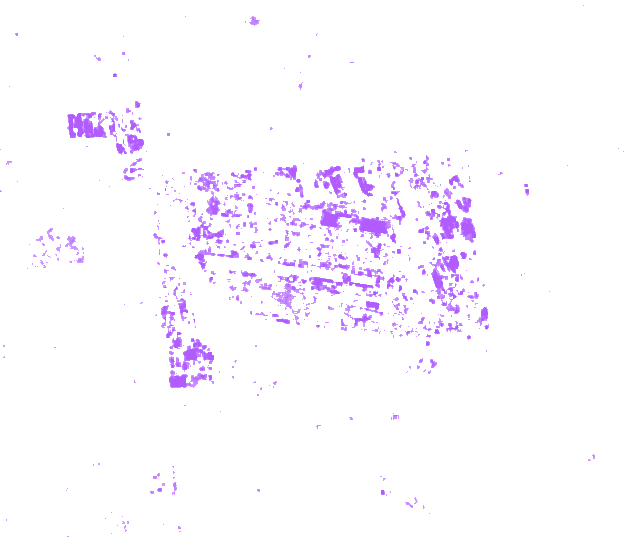
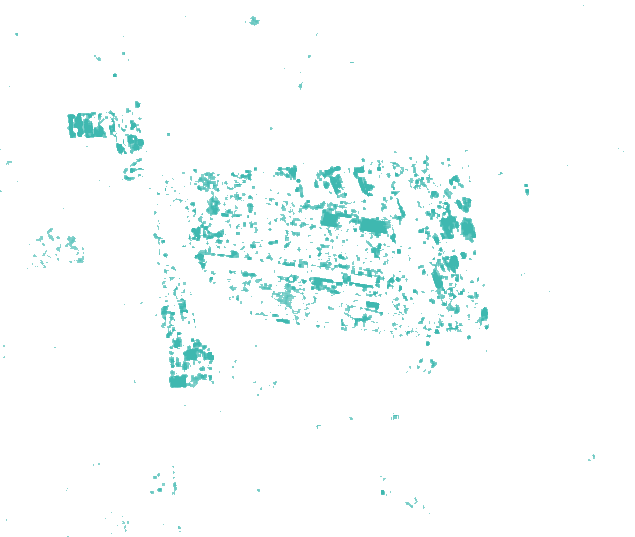
Map: replace NISAR purple with deep teal (#43)
Claude-Session: https://claude.ai/code/session_01Hon3ryJ9veeTL5aCGruNmY

diff --git a/map/index.html b/map/index.html
@@ -13,9 +13,9 @@
   :root {
     --linen: #EFEAE0; --ivory: #FAF8F3; --paper: #F5F1E8; --rule: #DCD4C5; --rule2: #CFC6B4;
     --ink: #1D1C1A; --ink2: #3A3731; --muted: #6F675A; --faint: #A39A8B;
-    --rust: #C2461B; --ember: #FF5A1F; --ochre: #B9832A; --crimson: #8E1F1F; --teal: #2C6A66;
+    --rust: #C2461B; --ember: #FF5A1F; --ochre: #B9832A; --crimson: #8E1F1F; --teal: #3A5A78;
     /* one color per satellite, used everywhere: chips, lanes, charts, map */
-    --s1: #3E6A96; --nisar: #8A2BE2; --swot: #12808F; --opera: #6F8FB0; --proj: #B9832A;
+    --s1: #3E6A96; --nisar: #1F6F78; --swot: #2B7BBA; --opera: #6F8FB0; --proj: #B9832A;
     --lc-developed: #8F8A80; --lc-cropland: #D9A93A; --lc-pasture_hay: #E3D08A; --lc-forest: #3F6E45;
     --lc-shrub_grass: #9DB07A; --lc-barren: #C9B79A; --lc-wetlands: #4E9A9C; --lc-water: #3D74AE;
     --mono: "IBM Plex Mono", ui-monospace, Menlo, monospace;
@@ -99,8 +99,8 @@
   .btn:hover { background: var(--ink); color: var(--ivory); }
   .btn.solid { background: var(--ink); color: var(--ivory); }
   .btn.solid:hover { background: #000; }
-  .btn.violet { border-color: var(--nisar); background: var(--nisar); color: #fff; }
-  .linkbtn { background: none; border: 0; padding: 0; font: inherit; color: var(--teal); cursor: pointer; text-align: left; text-decoration: underline; text-decoration-color: rgba(44, 106, 102, .35); }
+  .btn.nisarbtn { border-color: var(--nisar); background: var(--nisar); color: #fff; }
+  .linkbtn { background: none; border: 0; padding: 0; font: inherit; color: var(--teal); cursor: pointer; text-align: left; text-decoration: underline; text-decoration-color: rgba(58, 90, 120, .35); }
   .back { display: inline-flex; align-items: center; gap: 6px; border: 0; background: none; padding: 0; margin-bottom: 14px; cursor: pointer; font: 500 10.5px var(--mono); letter-spacing: .1em; text-transform: uppercase; color: var(--muted); }
   .back:hover { color: var(--ink); }
 
@@ -281,7 +281,7 @@
     <span class="chip nisar">NISAR radar</span>
     <h2>What NASA's NISAR adds</h2>
     <p>NISAR is a NASA-ISRO radar satellite. It sees through clouds, day or night, and passes over every 12 days.</p>
-    <p>Its long L-band waves show new buildings rising and tiny ground motion over the aquifers campuses depend on. Anything purple on the map is NISAR.</p>
+    <p>Its long L-band waves show new buildings rising and tiny ground motion over the aquifers campuses depend on. Anything deep teal on the map is NISAR.</p>
   </div>
   <div class="pg" style="--c:var(--ink)" hidden>
     <span class="cap">How to use it</span>
@@ -429,10 +429,10 @@ function radarChart(n, s) {
     ${xt}
     <text x="${L0}" y="6" font-size="9.5" fill="#3E6A96" font-family="IBM Plex Mono" font-weight="600">SENTINEL-1 · VV dB</text>
     <path d="${path(n.s1.t, n.s1.v, Y1)}" fill="none" stroke="#3E6A96" stroke-width="1.6"/>
-    <text x="${L0}" y="${top2 - 4}" font-size="9.5" fill="#8A2BE2" font-family="IBM Plex Mono" font-weight="600">NISAR · HH dB</text>
-    <rect x="${X(n.nisar.t[0]) - 4}" y="${top2}" width="${W - R0 - X(n.nisar.t[0]) + 4}" height="${h2}" fill="#8A2BE2" opacity=".07"/>
-    <path d="${path(n.nisar.t, n.nisar.v, Y2)}" fill="none" stroke="#8A2BE2" stroke-width="1.8"/>
-    ${n.nisar.t.map((d, i) => `<circle cx="${X(d)}" cy="${Y2(n.nisar.v[i])}" r="2.6" fill="#8A2BE2"/>`).join("")}
+    <text x="${L0}" y="${top2 - 4}" font-size="9.5" fill="#1F6F78" font-family="IBM Plex Mono" font-weight="600">NISAR · HH dB</text>
+    <rect x="${X(n.nisar.t[0]) - 4}" y="${top2}" width="${W - R0 - X(n.nisar.t[0]) + 4}" height="${h2}" fill="#1F6F78" opacity=".07"/>
+    <path d="${path(n.nisar.t, n.nisar.v, Y2)}" fill="none" stroke="#1F6F78" stroke-width="1.8"/>
+    ${n.nisar.t.map((d, i) => `<circle cx="${X(d)}" cy="${Y2(n.nisar.v[i])}" r="2.6" fill="#1F6F78"/>`).join("")}
     ${cs ? `<line x1="${X(cs)}" x2="${X(cs)}" y1="8" y2="${H - 12}" stroke="#1D1C1A" stroke-dasharray="3 2"/><text x="${X(cs) - 3}" y="18" font-size="9" text-anchor="end" fill="#1D1C1A" font-family="IBM Plex Mono">BUILD STARTS</text>` : ""}
   </svg>`;
 }
@@ -444,7 +444,7 @@ function nisarPair(sid) {
       <figcaption class="note" style="margin-top:3px">NISAR · ${f0.date}</figcaption></figure>
     <figure style="margin:0;position:relative"><div style="position:relative"><img loading="lazy" src="${esc(f1.png)}" alt="NISAR radar, ${f1.date}" style="width:100%;display:block;background:#222;aspect-ratio:1;object-fit:cover">
       <img loading="lazy" src="${esc(n.change_png)}" alt="" style="position:absolute;inset:0;width:100%;height:100%;object-fit:cover;image-rendering:pixelated"></div>
-      <figcaption class="note" style="margin-top:3px">NISAR · ${f1.date} · <b style="color:var(--nisar)">purple = much brighter</b></figcaption></figure></div>`;
+      <figcaption class="note" style="margin-top:3px">NISAR · ${f1.date} · <b style="color:var(--nisar)">teal = much brighter</b></figcaption></figure></div>`;
 }
 /* NISAR ground motion (GUNW) over a linked aquifer: cumulative mm, with the +/- 2 sigma noise band growing pair by pair. */
 const GW_TXT = { no_clear: "No clear movement", toward: "Moved toward the satellite", away: "Moved away from the satellite" };
@@ -456,10 +456,10 @@ function gwChart(g, big) {
   const X = x => L0 + (x - t0) / (t1 - t0) * (W - L0 - R0), Y = v => T0 + (m - v) / (2 * m) * (H - T0 - B0);
   const band = t.map((x, k) => `${X(x).toFixed(1)},${Y(env[k]).toFixed(1)}`).join(" ") + " " + t.map((x, k) => `${X(x).toFixed(1)},${Y(-env[k]).toFixed(1)}`).reverse().join(" ");
   const line = g.v.map((v, k) => `${k ? "L" : "M"}${X(t[k]).toFixed(1)},${Y(v).toFixed(1)}`).join("");
-  const col = "#8A2BE2";
+  const col = "#1F6F78";
   const tx = (x, y, s, a = "end") => `<text x="${x}" y="${y}" font-size="9.5" text-anchor="${a}" fill="#6F675A" font-family="IBM Plex Mono">${s}</text>`;
   return `<svg class="${big ? "chart" : "spark"}" viewBox="0 0 ${W} ${H}" ${big ? 'role="img" aria-label="NISAR ground motion over the aquifer"' : 'aria-hidden="true"'}>
-    <polygon points="${band}" fill="#8A2BE2" opacity=".10"/><line x1="${L0}" x2="${W - R0}" y1="${Y(0)}" y2="${Y(0)}" stroke="#DCD4C5"/>
+    <polygon points="${band}" fill="#1F6F78" opacity=".10"/><line x1="${L0}" x2="${W - R0}" y1="${Y(0)}" y2="${Y(0)}" stroke="#DCD4C5"/>
     <path d="${line}" fill="none" stroke="${col}" stroke-width="${big ? 2 : 1.5}"/>${big ? g.v.map((v, k) => `<circle cx="${X(t[k])}" cy="${Y(v)}" r="2.2" fill="${col}"/>`).join("") : ""}
     ${big ? tx(L0 - 5, Y(0) + 3, "0") + tx(L0 - 5, Y(m * .9) + 3, "+" + (m * .9 / 10).toFixed(1) + " cm") + tx(L0 - 5, Y(-m * .9) + 3, "-" + (m * .9 / 10).toFixed(1) + " cm")
       + tx(X(t0), H - 4, g.first_date.slice(5), "start") + tx(X(t1), H - 4, g.last_date.slice(5)) : ""}</svg>`;
@@ -535,10 +535,10 @@ function chWater() {
         <span class="barw"><i style="--c:${SHARE_C(x)};width:${Math.min(100, x / maxS * 100)}%"></i><u style="left:${Math.min(100, 1 / maxS * 100)}%"></u></span></button>`; }).join("")}
     ${how(srcline(["data/sources.csv", "data/water/site_sources.csv"], ["https://echo.epa.gov/tools/data-downloads#dwdownloads"]), "Utility and source come from EPA drinking-water records for the service area each campus sits in.", "F5: estimated campus water (F4) divided by the utility's supply (people served x the state's average liters per person per day, USGS 2015). Middle estimate shown. A share above 100% means the estimate is larger than today's supply; it does not say where the water would come from.", "Linked to is not caused by: a campus being linked to a source does not mean it caused any change in it.")}
     </section>
-    <section class="part" style="--c:#12808F"><h2 class="ph"><span class="pn">2</span>Rivers and lakes: is the water level changing?</h2>
+    <section class="part" style="--c:#2B7BBA"><h2 class="ph"><span class="pn">2</span>Rivers and lakes: is the water level changing?</h2>
     ${swot.map(s => { const w = trendWords(s);
       return `<button class="rank" data-src="${s.id}"><span class="nm">${esc(s.water_body.replace(/\s*\(.*?\)/g, ""))}<small style="color:${w.down ? "#C2461B" : "var(--muted)"}">${chip("swot")} ${esc(w.txt)}${w.few ? "" : ` · ${s.trend_n} passes`}</small></span>
-        <span>${sparkline(s.series, w.few ? "#A39A8B" : "#12808F", w.few)}</span></button>`; }).join("")}
+        <span>${sparkline(s.series, w.few ? "#A39A8B" : "#2B7BBA", w.few)}</span></button>`; }).join("")}
     ${how(srcline(["data/sources.csv", "data/water/swot/"], ["https://podaac.github.io/hydrocron/intro.html"]), `SWOT measures river and lake water levels from space. The trend is a straight-line fit to the passes since SWOT began (2023), so it covers only a few years. With fewer than ${SWOT_MIN_N} good passes we show the points but do not call it a trend. A trend describes the water body; it does not show what caused the change.`)}
     </section>
     <section class="part" style="--c:#6F8FB0"><h2 class="ph"><span class="pn">3</span>Aquifers: is the ground above them sinking?</h2>
@@ -575,10 +575,10 @@ function futureChart(y) {
     ${grid.map(v => `<line x1="${L0}" x2="${W - R0}" y1="${Y(v)}" y2="${Y(v)}" stroke="#E6DFD1"/><text x="${L0 - 5}" y="${Y(v) + 3}" font-size="9.5" text-anchor="end" fill="#6F675A" font-family="IBM Plex Mono">${v >= 1e6 ? (v / 1e6).toFixed(1) + "M" : Math.round(v / 1e3) + "k"}</text>`).join("")}
     <path d="${line(pc)}L${X(n - 1)},${Y(ann[n - 1])}${ann.map((v, i) => `L${X(n - 1 - i)},${Y(ann[n - 1 - i])}`).join("")}Z" fill="#B9832A" opacity=".10"/>
     <path d="${line(pc)}" fill="none" stroke="#B9832A" stroke-width="2" stroke-dasharray="5 4"/>
-    <polygon points="${band}" fill="#12808F" opacity=".14"/>
-    <path d="${line(ann)}" fill="none" stroke="#12808F" stroke-width="2.2"/>
+    <polygon points="${band}" fill="#2B7BBA" opacity=".14"/>
+    <path d="${line(ann)}" fill="none" stroke="#2B7BBA" stroke-width="2.2"/>
     <line x1="${X(y)}" x2="${X(y)}" y1="${T0p}" y2="${H - B0}" stroke="#1D1C1A" stroke-width="1"/>
-    <circle cx="${X(y)}" cy="${Y(ann[y])}" r="4" fill="#12808F" stroke="#fff" stroke-width="1.5"/><circle cx="${X(y)}" cy="${Y(pc[y])}" r="4" fill="#B9832A" stroke="#fff" stroke-width="1.5"/>
+    <circle cx="${X(y)}" cy="${Y(ann[y])}" r="4" fill="#2B7BBA" stroke="#fff" stroke-width="1.5"/><circle cx="${X(y)}" cy="${Y(pc[y])}" r="4" fill="#B9832A" stroke="#fff" stroke-width="1.5"/>
     ${YEARS.map((yy, i) => i % (isNarrow() ? 3 : 1) === 0 || i === n - 1 ? `<text x="${X(i)}" y="${H - 5}" font-size="9.5" text-anchor="middle" fill="${i === y ? "#1D1C1A" : "#6F675A"}" font-family="IBM Plex Mono" font-weight="${i === y ? 600 : 400}">${String(yy).slice(2) === String(yy).slice(2) ? "'" + String(yy).slice(2) : yy}</text>` : "").join("")}
     <text x="${X(n - 1) - 4}" y="${Y(pc[n - 1]) - 8}" font-size="10" text-anchor="end" fill="#8A621B" font-family="IBM Plex Sans" font-weight="600">if the pace continues</text>
     <text x="${X(n - 1) - 4}" y="${Y(ann[n - 1]) + 16}" font-size="10" text-anchor="end" fill="#0E6670" font-family="IBM Plex Sans" font-weight="600">announced campuses</text>
@@ -587,7 +587,7 @@ function futureChart(y) {
 function chFuture() {
   const y = yIdxAt(state.t), F = futureNumbers(y), m = F.median, per = 25000;
   const nA = Math.round(people(m.w) / per), nP = Math.round(people(m.pw) / per);
-  const figs = Array(nA).fill(PERSON("", "#12808F", "")).concat(Array(nP).fill(PERSON("", "none", 'stroke="#B9832A" stroke-width="1" stroke-dasharray="2 1.5"')));
+  const figs = Array(nA).fill(PERSON("", "#2B7BBA", "")).concat(Array(nP).fill(PERSON("", "none", 'stroke="#B9832A" stroke-width="1" stroke-dasharray="2 1.5"')));
   const sqmi = a => (a / 640).toFixed(0);
   return `<div class="ch">
     <div class="kicker"><span class="n">4</span>${chip("proj", "Projection to 2035")}</div>
@@ -599,7 +599,7 @@ function chFuture() {
       : `<p class="bigl" style="color:#8A621B">The "if the pace continues" line starts in ${pace.first_year}.</p>`}
     <h3>Each figure = the water ${per.toLocaleString("en-US")} people use</h3>
     <div class="people" role="img" aria-label="${nA} solid figures for announced campuses and ${nP} dashed figures if the pace continues">${figs.join("")}</div>
-    <p class="note"><span style="color:#12808F;font-weight:600">Solid</span>: built and announced campuses. <span style="color:#8A621B;font-weight:600">Dashed</span>: if the announcement pace continues.</p>
+    <p class="note"><span style="color:#2B7BBA;font-weight:600">Solid</span>: built and announced campuses. <span style="color:#8A621B;font-weight:600">Dashed</span>: if the announcement pace continues.</p>
     <h3>Water, ${YEARS[0]}-${YEARS[LAST]}, in people</h3>
     ${futureChart(y)}
     <h3>Land</h3>
@@ -636,7 +636,7 @@ function replayKind(s) {
 function replayWhy(s) {
   const k = replayKind(s);
   if (k === "pixels") return "Each rust square lights up in the month Sentinel-1 first saw that patch of ground change.";
-  if (k === "nisar") return `Steps through all ${NI[s.id].frames.length} NISAR radar images, one every 12 days. Purple on the last one = ground that got much brighter since June.`;
+  if (k === "nisar") return `Steps through all ${NI[s.id].frames.length} NISAR radar images, one every 12 days. Teal on the last one = ground that got much brighter since June.`;
   if (k === "curve") return "Plays the measured acres month by month. The campus outline fills in as the land changes. We don't draw single radar squares here because our re-check of them did not match exactly, so we show only the checked total.";
   if (s.status === "built") return "No replay: the radar measurement for this campus did not produce a usable result.";
   return "No replay yet: the radar measurement was run on the built campuses and the 3 NISAR sites, not on this announced one.";
@@ -676,7 +676,7 @@ function showSite(s) {
     <p class="note">${s.status === "built" ? "Built campus" : "Announced campus"}${s.construction_start ? " · construction from " + s.construction_start : ""}${s.mw_stated ? " · " + fmt(s.mw_stated) + " MW stated" : ""}</p>
     ${takeaway(s)}`;
   const rk = replayKind(s), cv = curveOf(s);
-  if (P && P.nisar) h += `<p class="note" style="margin-top:10px">&#8596; Drag the divider on the map: aerial photo from ${P.before[2]} (before) vs. <span style="color:var(--nisar)">NISAR radar</span> on the timeline date. Bright = buildings and steel; purple = much brighter since June.</p>
+  if (P && P.nisar) h += `<p class="note" style="margin-top:10px">&#8596; Drag the divider on the map: aerial photo from ${P.before[2]} (before) vs. <span style="color:var(--nisar)">NISAR radar</span> on the timeline date. Bright = buildings and steel; teal = much brighter since June.</p>
       ${how(srcline(["data/wayback_captures.csv", P.nisar.file], [WB.source, "https://cmr.earthdata.nasa.gov/search/concepts/C3622241360-ASF.html"]), `The right side is radar, not a photo, because the newest aerial photo here (${P.after[2]}) was taken ${P.after[0] < P.cs ? "before" : "only weeks after"} work began. "Much brighter" = more than 3 dB, mean of the last 3 passes vs. the first 3.`)}`;
   else if (P && !P.noAfter) h += `<p class="note" style="margin-top:10px">&#8596; Drag the divider on the map: aerial photo from ${P.before[2]} (before) vs. the photo for the timeline date (newest ${P.after[2]})${rk === "pixels" ? `, with the land radar saw change in <span style="color:var(--rust)">rust</span>` : ""}.</p>
       ${how(srcline(["data/wayback_captures.csv"], [WB.source]))}`;
@@ -732,11 +732,11 @@ function showSource(src) {
     <div class="chips" style="margin:0 0 8px">${w ? chip(w.k) : datachip("No satellite trend")}${st === "ok" ? chip("proj") : datachip("No water estimate")}</div>
     <h2>${esc(src.water_body)}</h2><p class="note">${kind} · used by ${title(src.utility)} (EPA ${esc(src.pwsid)})${src.population_served ? `, ${fmt(src.population_served)} people` : ""}</p>
     <h3>How it is changing</h3>
-    ${w ? `<p>${chip(w.k)} ${esc(w.txt[0].toUpperCase() + w.txt.slice(1))}, ${src.trend_start} to ${src.trend_end}${w.k === "swot" && !w.few ? ` (${src.trend_n} passes)` : ""}.${w.k === "opera" && w.down ? " Moving away often means sinking, which can come from pumping groundwater, but this measurement alone does not say why." : ""}</p>${sparkline(src.series, w.few ? "#A39A8B" : w.k === "swot" ? "#12808F" : "#6F8FB0", w.few).replace('class="spark"', 'class="spark" style="width:100%;height:70px"')}`
+    ${w ? `<p>${chip(w.k)} ${esc(w.txt[0].toUpperCase() + w.txt.slice(1))}, ${src.trend_start} to ${src.trend_end}${w.k === "swot" && !w.few ? ` (${src.trend_n} passes)` : ""}.${w.k === "opera" && w.down ? " Moving away often means sinking, which can come from pumping groundwater, but this measurement alone does not say why." : ""}</p>${sparkline(src.series, w.few ? "#A39A8B" : w.k === "swot" ? "#2B7BBA" : "#6F8FB0", w.few).replace('class="spark"', 'class="spark" style="width:100%;height:70px"')}`
       : `<p>No satellite trend: ${esc({ swot_lake_id_unavailable: "we could not get SWOT's lake record for it", insufficient_swot: "too few good SWOT passes", insufficient_disp_s1: "too few usable OPERA dates" }[src.trend_status] || src.trend_status)}.</p>`}
     ${GW[src.id] ? `<h3>${chip("nisar")} Ground over the aquifer, ${GW[src.id].first_date} to ${GW[src.id].last_date}</h3>
       <p>NISAR saw ${esc(gwWords(GW[src.id]))}.${GW[src.id].opera_same_span_mm != null ? ` At the 10-year OPERA rate the ground would move only ${Math.abs(GW[src.id].opera_same_span_mm).toFixed(1)} mm in the same time.` : ""}</p>${gwChart(GW[src.id], true)}
-      <p class="note">Purple shading = NISAR's noise (±2 sigma), growing as 12-day pairs add up. Track ${GW[src.id].track}, frame ${GW[src.id].frame}, ${GW[src.id].n_pairs} pairs.</p>
+      <p class="note">Teal shading = NISAR's noise (±2 sigma), growing as 12-day pairs add up. Track ${GW[src.id].track}, frame ${GW[src.id].frame}, ${GW[src.id].n_pairs} pairs.</p>
       ${srcline([GW[src.id].file, "data/water/gunw/gunw_summary.csv"], ["https://cmr.earthdata.nasa.gov/search/concepts/C2854335566-ASF.html"])}` : ""}
     <h3>Campus water need vs. this utility's supply</h3>
     ${need}
@@ -774,7 +774,7 @@ function renderHeadline() {
   } else if (state.ch === "nisar") {
     const n = ST.nisar, cnt = Object.values(n).reduce((a, x) => a + x.nisar.t.filter(d => tOf(d) <= t).length, 0);
     h = `<div class="when"><span class="cap">${tnice(t)}</span>${chip("nisar")}</div><div class="hbig">${t < NISAR_T0 ? "Not yet" : cnt}<small>${t < NISAR_T0 ? "NISAR has no data here" : `of ${NISAR_N} NISAR images read`}</small></div>
-      <p class="hl">${t < NISAR_T0 ? "Before NISAR, only Sentinel-1 can show these sites." : "One image every 12 days at each of 3 campuses. Purple rings: click one."}</p>`;
+      <p class="hl">${t < NISAR_T0 ? "Before NISAR, only Sentinel-1 can show these sites." : "One image every 12 days at each of 3 campuses. Teal rings: click one."}</p>`;
   } else if (state.ch === "water") {
     h = `<div class="when"><span class="cap">Today · ${YEARS[LAST]} need</span>${datachip("EPA + projection")}</div><div class="hbig" style="color:var(--crimson)">${D.sources.filter(s => s.share.median[LAST] >= 1).length}<small>utilities over 100%</small></div>
       <p class="hl">Drops are water sources. Bigger and darker = campus need is a larger share of the town's supply by ${YEARS[LAST]}. Lines link each campus to its source.</p>`;
@@ -789,8 +789,8 @@ function renderHeadline() {
 function renderLegend() {
   const el = document.getElementById("legend");
   if (state.detail && state.detail[0] === "src") { el.innerHTML = `<div class="cap" style="margin-bottom:2px">Water source: campus need vs. supply, ${YEARS[LAST]}</div>
-    <div><span class="sw r" style="--c:#8E1F1F"></span>More than all of today's supply</div><div><span class="sw r" style="--c:#C2461B"></span>20-100%</div><div><span class="sw r" style="--c:#D9A93A"></span>5-20%</div><div><span class="sw r" style="--c:#9DB07A"></span>Under 5%</div><div><span class="sw r" style="--c:#A39A8B"></span>No estimate (campus has no MW or capex)</div><div><span class="sw" style="--c:transparent;border-top:2px dashed #12808F;height:2px"></span>Campus linked to this source</div>`; return; }
-  if (state.detail && state.detail[0] === "site" && NI[state.detail[1]]) { el.innerHTML = `<div><span class="sw" style="--c:#8A2BE2"></span>NISAR: ground much brighter since June 2026</div><div><span class="sw" style="--c:#888"></span>NISAR radar image (bright = buildings, steel)</div><div><span class="sw" style="--c:transparent;border:1.5px dashed #FAF8F3;outline:1px solid #3A3731"></span>Campus outline</div>`; return; }
+    <div><span class="sw r" style="--c:#8E1F1F"></span>More than all of today's supply</div><div><span class="sw r" style="--c:#C2461B"></span>20-100%</div><div><span class="sw r" style="--c:#D9A93A"></span>5-20%</div><div><span class="sw r" style="--c:#9DB07A"></span>Under 5%</div><div><span class="sw r" style="--c:#A39A8B"></span>No estimate (campus has no MW or capex)</div><div><span class="sw" style="--c:transparent;border-top:2px dashed #2B7BBA;height:2px"></span>Campus linked to this source</div>`; return; }
+  if (state.detail && state.detail[0] === "site" && NI[state.detail[1]]) { el.innerHTML = `<div><span class="sw" style="--c:#1F6F78"></span>NISAR: ground much brighter since June 2026</div><div><span class="sw" style="--c:#888"></span>NISAR radar image (bright = buildings, steel)</div><div><span class="sw" style="--c:transparent;border:1.5px dashed #FAF8F3;outline:1px solid #3A3731"></span>Campus outline</div>`; return; }
   if (state.detail && state.detail[0] === "site") { el.innerHTML = `<div><span class="sw" style="--c:#C2461B"></span>Land Sentinel-1 radar saw change</div><div><span class="sw" style="--c:transparent;border:1.5px dashed #FAF8F3;outline:1px solid #3A3731"></span>Campus outline</div>`; return; }
   if (state.ch === "land") el.innerHTML = `<div class="cap" style="margin-bottom:2px">Campus, size = acres changed, color = land before</div>` +
     LC.filter(([k]) => ST.land.acres[k] >= 1).map(([k, n]) => `<div><span class="sw" style="--c:${LCC[k]}"></span>${n}</div>`).join("");
@@ -804,8 +804,8 @@ function renderLegend() {
 const lanesEl = document.getElementById("lanes");
 const LANES = [
   { k: "s1", name: "Sentinel-1 radar · land", from: Math.max(T0, tOf(ST.sensors.sentinel1.from)), to: tOf(ST.sensors.sentinel1.to), c: "#3E6A96" },
-  { k: "nisar", name: "NISAR radar · land + ground", from: NISAR_T0, to: tOf(ST.sensors.nisar.to), c: "#8A2BE2", strong: NISAR_USABLE },
-  { k: "swot", name: "SWOT · water levels", from: tOf(ST.sensors.swot.from), to: tOf(ST.sensors.swot.to), c: "#12808F" },
+  { k: "nisar", name: "NISAR radar · land + ground", from: NISAR_T0, to: tOf(ST.sensors.nisar.to), c: "#1F6F78", strong: NISAR_USABLE },
+  { k: "swot", name: "SWOT · water levels", from: tOf(ST.sensors.swot.from), to: tOf(ST.sensors.swot.to), c: "#2B7BBA" },
   { k: "opera", name: "OPERA DISP-S1 · ground", from: Math.max(T0, tOf(ST.sensors.opera.from)), to: tOf(ST.sensors.opera.to), c: "#6F8FB0" },
   { k: "proj", name: "Projection · announced + pace", from: PROJ0, to: TEND, c: "#B9832A", dash: true },
 ];
@@ -846,7 +846,7 @@ function renderLanes() {
   const sub = document.getElementById("clockSub");
   const act = LANES.filter(active).filter(l => l.k !== "proj").map(l => CHIP[l.k].replace(" radar", ""));
   sub.textContent = state.t > T_MEAS1 ? "Projected" : state.ch === "water" && !state.detail ? "EPA · SWOT · OPERA · NISAR" : act.join(" + ") || "Measured";
-  sub.style.color = state.t > T_MEAS1 ? "#8A621B" : act.some(a => a.startsWith("NISAR")) ? "#8A2BE2" : "#3E6A96";
+  sub.style.color = state.t > T_MEAS1 ? "#8A621B" : act.some(a => a.startsWith("NISAR")) ? "#1F6F78" : "#3E6A96";
 }
 function tFromX(clientX) {
   const r = lanesEl.getBoundingClientRect(), svgW = laneGeom.W, x = (clientX - r.left - 8) / (r.width - 26) * svgW;
@@ -934,7 +934,7 @@ map.on("load", () => {
   map.addLayer({ id: "outline-fill", type: "fill", source: "outlines", minzoom: 9, paint: { "fill-color": "#B9832A", "fill-opacity": 0 } });
   map.addLayer({ id: "outline", type: "line", source: "outlines", minzoom: 9, paint: { "line-color": "#FAF8F3", "line-width": 2, "line-dasharray": [3, 2] } });
   map.addSource("links", { type: "geojson", data: linksFC });
-  map.addLayer({ id: "link", type: "line", source: "links", layout: { visibility: "none" }, paint: { "line-color": "#12808F", "line-width": 1.6, "line-opacity": .8, "line-dasharray": [3, 2] } });
+  map.addLayer({ id: "link", type: "line", source: "links", layout: { visibility: "none" }, paint: { "line-color": "#2B7BBA", "line-width": 1.6, "line-opacity": .8, "line-dasharray": [3, 2] } });
   map.addSource("sources", { type: "geojson", data: sourcesFC() });
   map.addLayer({ id: "src", type: "symbol", source: "sources", layout: { visibility: "none", "icon-image": "drop", "icon-size": ["interpolate", ["linear"], ["zoom"], 2, ["*", ["get", "size"], .5], 4.5, ["get", "size"]], "icon-allow-overlap": true, "icon-anchor": "bottom" },
     paint: { "icon-color": ["get", "color"] } });
@@ -947,10 +947,10 @@ map.on("load", () => {
     paint: { "icon-color": ["get", "color"], "icon-opacity": ["interpolate", ["linear"], ["zoom"], 10.5, ["case", ["get", "started"], .95, .45], 12, 0], "icon-halo-color": "#1D1C1A", "icon-halo-width": 1 } });
   map.addLayer({ id: "site-label", type: "symbol", source: "sites", minzoom: 6, filter: ["get", "show"], layout: { ...TXT, "text-field": ["get", "name"] }, paint: { ...HALO, "text-opacity": fade } });
   map.addSource("nisar", { type: "geojson", data: nisarFC });
-  map.addLayer({ id: "nisar-glow", type: "circle", source: "nisar", layout: { visibility: "none" }, paint: { "circle-radius": 26, "circle-color": "#8A2BE2", "circle-opacity": .14, "circle-blur": .4 } });
-  map.addLayer({ id: "nisar-ring", type: "circle", source: "nisar", layout: { visibility: "none" }, paint: { "circle-radius": 16, "circle-color": "rgba(0,0,0,0)", "circle-stroke-color": "#8A2BE2", "circle-stroke-width": 3 } });
+  map.addLayer({ id: "nisar-glow", type: "circle", source: "nisar", layout: { visibility: "none" }, paint: { "circle-radius": 26, "circle-color": "#1F6F78", "circle-opacity": .14, "circle-blur": .4 } });
+  map.addLayer({ id: "nisar-ring", type: "circle", source: "nisar", layout: { visibility: "none" }, paint: { "circle-radius": 16, "circle-color": "rgba(0,0,0,0)", "circle-stroke-color": "#1F6F78", "circle-stroke-width": 3 } });
   map.addLayer({ id: "nisar-label", type: "symbol", source: "nisar", layout: { visibility: "none", "text-font": ["Open Sans Semibold"], "text-size": 12, "text-anchor": ["case", ["==", ["get", "kind"], "src"], "bottom", "top"], "text-offset": ["case", ["==", ["get", "kind"], "src"], ["literal", [0, -1.9]], ["literal", [0, 1.9]]],
-    "text-field": ["format", "NISAR\n", { "font-scale": .95, "text-color": "#8A2BE2" }, ["get", "name"], {}], "text-allow-overlap": true }, paint: { ...HALO, "text-halo-width": 2.2 } });
+    "text-field": ["format", "NISAR\n", { "font-scale": .95, "text-color": "#1F6F78" }, ["get", "name"], {}], "text-allow-overlap": true }, paint: { ...HALO, "text-halo-width": 2.2 } });
 
   for (const id of ["site", "src", "nisar-ring", "outline-fill"]) {
     map.on("mouseenter", id, () => map.getCanvas().style.cursor = "pointer");
@@ -1070,8 +1070,8 @@ function nisarOn(id, k) {
   } else { if (nisarUrl !== f.png) map.getSource("nisarF").updateImage({ url: f.png, coordinates: n.corners }); if (nisarShown !== id) map.getSource("nisarC").updateImage({ url: n.change_png, coordinates: n.corners }); }
   map.setPaintProperty("nisarC", "raster-opacity", last ? .8 : 0);
   nisarShown = id; nisarUrl = f.png;
-  tagA.innerHTML = `NISAR radar<small>${f.date} · image ${k + 1} of ${n.frames.length}${last ? " · purple = brighter since June" : ""}</small>`;
-  tagA.style.background = "#8A2BE2";
+  tagA.innerHTML = `NISAR radar<small>${f.date} · image ${k + 1} of ${n.frames.length}${last ? " · teal = brighter since June" : ""}</small>`;
+  tagA.style.background = "#1F6F78";
 }
 function nisarOff() { if (map.getLayer("nisarF")) { map.removeLayer("nisarF"); map.removeSource("nisarF"); map.removeLayer("nisarC"); map.removeSource("nisarC"); } nisarShown = null; nisarUrl = null; tagA.style.background = ""; }
 /* The right-hand side follows the timeline: NISAR frame, or the latest photo captured on or before the date. */
@@ -1142,7 +1142,7 @@ function startPlay(t0, t1, step, tick) {
 }
 function playRange() {
   if (state.detail && state.detail[0] === "src") { el.innerHTML = `<div class="cap" style="margin-bottom:2px">Water source: campus need vs. supply, ${YEARS[LAST]}</div>
-    <div><span class="sw r" style="--c:#8E1F1F"></span>More than all of today's supply</div><div><span class="sw r" style="--c:#C2461B"></span>20-100%</div><div><span class="sw r" style="--c:#D9A93A"></span>5-20%</div><div><span class="sw r" style="--c:#9DB07A"></span>Under 5%</div><div><span class="sw r" style="--c:#A39A8B"></span>No estimate (campus has no MW or capex)</div><div><span class="sw" style="--c:transparent;border-top:2px dashed #12808F;height:2px"></span>Campus linked to this source</div>`; return; }
+    <div><span class="sw r" style="--c:#8E1F1F"></span>More than all of today's supply</div><div><span class="sw r" style="--c:#C2461B"></span>20-100%</div><div><span class="sw r" style="--c:#D9A93A"></span>5-20%</div><div><span class="sw r" style="--c:#9DB07A"></span>Under 5%</div><div><span class="sw r" style="--c:#A39A8B"></span>No estimate (campus has no MW or capex)</div><div><span class="sw" style="--c:transparent;border-top:2px dashed #2B7BBA;height:2px"></span>Campus linked to this source</div>`; return; }
   if (state.detail && state.detail[0] === "site") { const s = siteById[state.detail[1]], cs = s.construction_start ? tOf(s.construction_start) : T0;
     return [Math.max(T0, cs - 6), T_MEAS1, 1, 120]; }
   const c = CH[state.ch]; if (state.ch === "water") return [PROJ0, TEND, 12, 800];
@@ -1155,7 +1155,7 @@ playBtn.addEventListener("click", () => {
 function replaySite() {
   if (state.playing) return stopPlay();
   const s = siteById[state.detail[1]];
-  if (replayKind(s) === "nisar") {   // one NISAR image every 12 days, then hold on the last with the change in purple
+  if (replayKind(s) === "nisar") {   // one NISAR image every 12 days, then hold on the last with the change in teal
     const n = NI[s.id]; let k = 0; stopPlay(); state.playing = true; setPlayUI(true);
     if (map.getZoom() < 10) map.fitBounds(bboxOf(s.outline), { padding: pad(), maxZoom: 15.5, duration: 0 });
     const step = () => { forcedFrame = k; setT(tOf(n.frames[k].date)); if (++k >= n.frames.length) { stopPlay(); forcedFrame = null; } };
@@ -1175,8 +1175,8 @@ document.getElementById("aboutBtn").onclick = () => {
   const missing = D.sites.filter(s => s.location.missing);
   about.innerHTML = `<h2>About the data</h2>
   <div class="sensor" style="--c:#3E6A96"><i></i><div><b>Sentinel-1 (ESA), C-band radar</b><p>Land change at ${Object.keys(TL.curves).length} campuses, monthly, 2017 to ${tnice(T_MEAS1)}. A pixel counts as changed when its brightness moves more than a threshold (3-5 dB) for two months in a row (F1). Read from Microsoft Planetary Computer.</p></div></div>
-  <div class="sensor" style="--c:#8A2BE2"><i></i><div><b>NISAR (NASA-ISRO), L-band radar</b><p>${NISAR_N} images on the map (one radar track per campus, one image every 12 days, ${ST.sensors.nisar.from} to ${ST.sensors.nisar.to}) over Vantage Frontier, Project Jupiter and Stargate Lordstown, out of ${ST.sensors.nisar.n_usable} usable images we checked on all tracks. Plus ground motion over the aquifers in step 3. NISAR's earliest test images here (Oct 2025) are not used; all of them came after construction began, so Sentinel-1 supplies the "before". Files: <code>data/nisar_gcov_coverage.csv</code>, <code>data/radar/nisar_series.csv</code>.</p></div></div>
-  <div class="sensor" style="--c:#12808F"><i></i><div><b>SWOT (NASA-CNES)</b><p>River water levels from Hydrocron, ${ST.sensors.swot.from} to ${ST.sensors.swot.to}, for ${ST.sensors.swot.n_sources} rivers.</p></div></div>
+  <div class="sensor" style="--c:#1F6F78"><i></i><div><b>NISAR (NASA-ISRO), L-band radar</b><p>${NISAR_N} images on the map (one radar track per campus, one image every 12 days, ${ST.sensors.nisar.from} to ${ST.sensors.nisar.to}) over Vantage Frontier, Project Jupiter and Stargate Lordstown, out of ${ST.sensors.nisar.n_usable} usable images we checked on all tracks. Plus ground motion over the aquifers in step 3. NISAR's earliest test images here (Oct 2025) are not used; all of them came after construction began, so Sentinel-1 supplies the "before". Files: <code>data/nisar_gcov_coverage.csv</code>, <code>data/radar/nisar_series.csv</code>.</p></div></div>
+  <div class="sensor" style="--c:#2B7BBA"><i></i><div><b>SWOT (NASA-CNES)</b><p>River water levels from Hydrocron, ${ST.sensors.swot.from} to ${ST.sensors.swot.to}, for ${ST.sensors.swot.n_sources} rivers.</p></div></div>
   <div class="sensor" style="--c:#6F8FB0"><i></i><div><b>OPERA DISP-S1 (NASA JPL, from Sentinel-1)</b><p>Ground motion over ${ST.sensors.opera.n_sources} aquifers, ${ST.sensors.opera.from} to ${ST.sensors.opera.to}.</p></div></div>
   <div class="sensor" style="--c:#B9832A"><i></i><div><b>Projection (F2-F9)</b><p>Built campuses give acres per MW, water per kWh, and how long building takes (low / median / high). Announced MW, or capex divided by $ per MW, gives each announced campus's land and water to ${YEARS[LAST]} (F2-F8). F9 adds a separate "if the pace continues" line: the MW announced in the last two years, repeated every year. People's worth = ${fmt(PER_CAPITA)} liters per person per day (USGS 2015 US public supply).</p></div></div>
   <p class="note" style="margin-top:12px">Every number traces to a CSV in the project's <code>data/</code> folder and its source link. Water text says a campus "depends on" or is "linked to" a source; nothing here says a data center caused a change in a water body.

diff --git a/pipeline/nisar_overlays.py b/pipeline/nisar_overlays.py
@@ -113,13 +113,13 @@ def save_grey(db, path, lo=-25, hi=5, max_px=520):
 
 
 def save_change(d, path, max_px=900):
-    """Violet where the ground got brighter by more than the threshold; stronger = more opaque."""
+    """Teal where the ground got brighter by more than the threshold; stronger = more opaque."""
     from PIL import Image
     a = np.clip((np.nan_to_num(d, nan=0) - THRESH_DB) / 6.0, 0, 1)
     on = np.nan_to_num(d, nan=0) > THRESH_DB
     alpha = np.where(on, 150 + 105 * a, 0).astype("uint8")
     rgb = np.zeros(d.shape + (3,), "uint8")
-    rgb[...] = (176, 92, 255)
+    rgb[...] = (63, 184, 176)
     im = Image.fromarray(np.dstack([rgb, alpha]), "RGBA")
     if max(im.size) > max_px:
         f = max_px / max(im.size)
